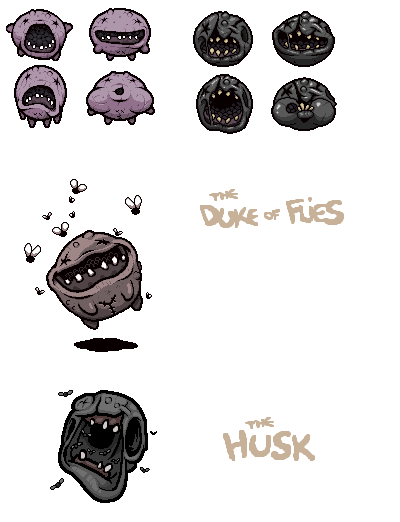
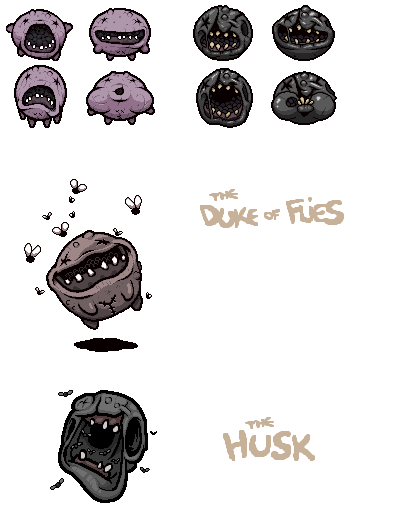
added boss - Husk - essentials

Changed region(s): [[0.66, 0.0, 0.84, 0.2759], [0.48, 0.0, 0.63, 0.2759]]

diff --git a/src/map/room.py b/src/map/room.py
@@ -3,6 +3,7 @@ from collections import deque
 from entities.mobs.alpha_maggot import AlphaMaggot
 from entities.mobs.boss.duke.duke import Duke
 from entities.mobs.boss.forsaken.forsaken import Forsaken
+from entities.mobs.boss.husk.husk import Husk
 from entities.mobs.boss.monstro.monstro import Monstro
 from entities.mobs.boss.monstro.monstro2 import Monstro2
 from entities.mobs.boss.satan.satan import Satan
@@ -255,7 +256,7 @@ class Room():
         if self.room_type == "boss":
             match self.level:
                 case 1:
-                    self.enemies.append(Duke(self.game, self.mob_spawn_positions[0][1], self.mob_spawn_positions[0][0]))
+                    self.enemies.append(Husk(self.game, self.mob_spawn_positions[0][1], self.mob_spawn_positions[0][0]))
                 case 2:
                     self.enemies.append(Monstro(self.game, self.mob_spawn_positions[0][1], self.mob_spawn_positions[0][0]))
                 case 2:
@@ -263,8 +264,7 @@ class Room():
                 case 3:
                     self.enemies.append(Satan(self.game, self.mob_spawn_positions[0][1], self.mob_spawn_positions[0][0]))
                 case 4:
-                    #self.enemies.append(Duke2(self.game, self.mob_spawn_positions[0][1], self.mob_spawn_positions[0][0]))
-                    self.enemies.append(Duke(self.game, self.mob_spawn_positions[0][1], self.mob_spawn_positions[0][0]))
+                    self.enemies.append(Husk(self.game, self.mob_spawn_positions[0][1], self.mob_spawn_positions[0][0]))
                 case 5:
                     self.enemies.append(Monstro2(self.game, self.mob_spawn_positions[0][1], self.mob_spawn_positions[0][0]))
                 case 6:

diff --git a/src/entities/mobs/boss/husk/husk_animation.py b/src/entities/mobs/boss/husk/husk_animation.py
@@ -1,0 +1,25 @@
+import pygame
+from entities.mobs.boss.duke.duke_animation import DukeAnimation
+
+class HuskAnimation(DukeAnimation):
+    def __init__(self, boss, game):
+        super().__init__(boss, game)
+        self.images = []
+        self.prepare_images()
+
+        self.intro_image = None
+        self.intro_name = None
+        self.prepare_intro_images()
+
+    def prepare_intro_images(self):
+        img = self.img.subsurface(pygame.Rect(45, 389, 116, 116))
+        self.intro_image = pygame.transform.scale(img, (img.get_width() * 3 * self.game.settings.SCALE, img.get_height() * 3 * self.game.settings.SCALE))
+        
+        img = self.img.subsurface(pygame.Rect(220, 414, 100, 51))
+        self.intro_name = pygame.transform.scale(img, (img.get_width() * 3 * self.game.settings.SCALE, img.get_height() * 3 * self.game.settings.SCALE))
+
+    def prepare_images(self):
+        for y in range(2):
+            for x in range(2, 4):
+                image = self.img.subsurface(pygame.Rect(x * 80 + 30, y * 64, 80, 64))
+                self.images.append(pygame.transform.scale(image, (self.boss.MOB_SIZE, self.boss.MOB_SIZE)))

diff --git a/src/entities/mobs/boss/husk/husk.py b/src/entities/mobs/boss/husk/husk.py
@@ -1,0 +1,16 @@
+import pygame
+from entities.mobs.boss.boss_health_bar import BossHealthBar
+from entities.mobs.boss.duke.duke import Duke
+from entities.mobs.boss.husk.husk_animation import HuskAnimation
+
+class Husk(Duke):
+    def __init__(self, game, x, y):
+        super().__init__(game, x, y)
+        self._max_health = 50
+        self._health = self._max_health
+        self._damage = 1.5
+        
+        self.health_bar = BossHealthBar(game, self)
+
+        #SKINS
+        self.animation = HuskAnimation(self, game)
